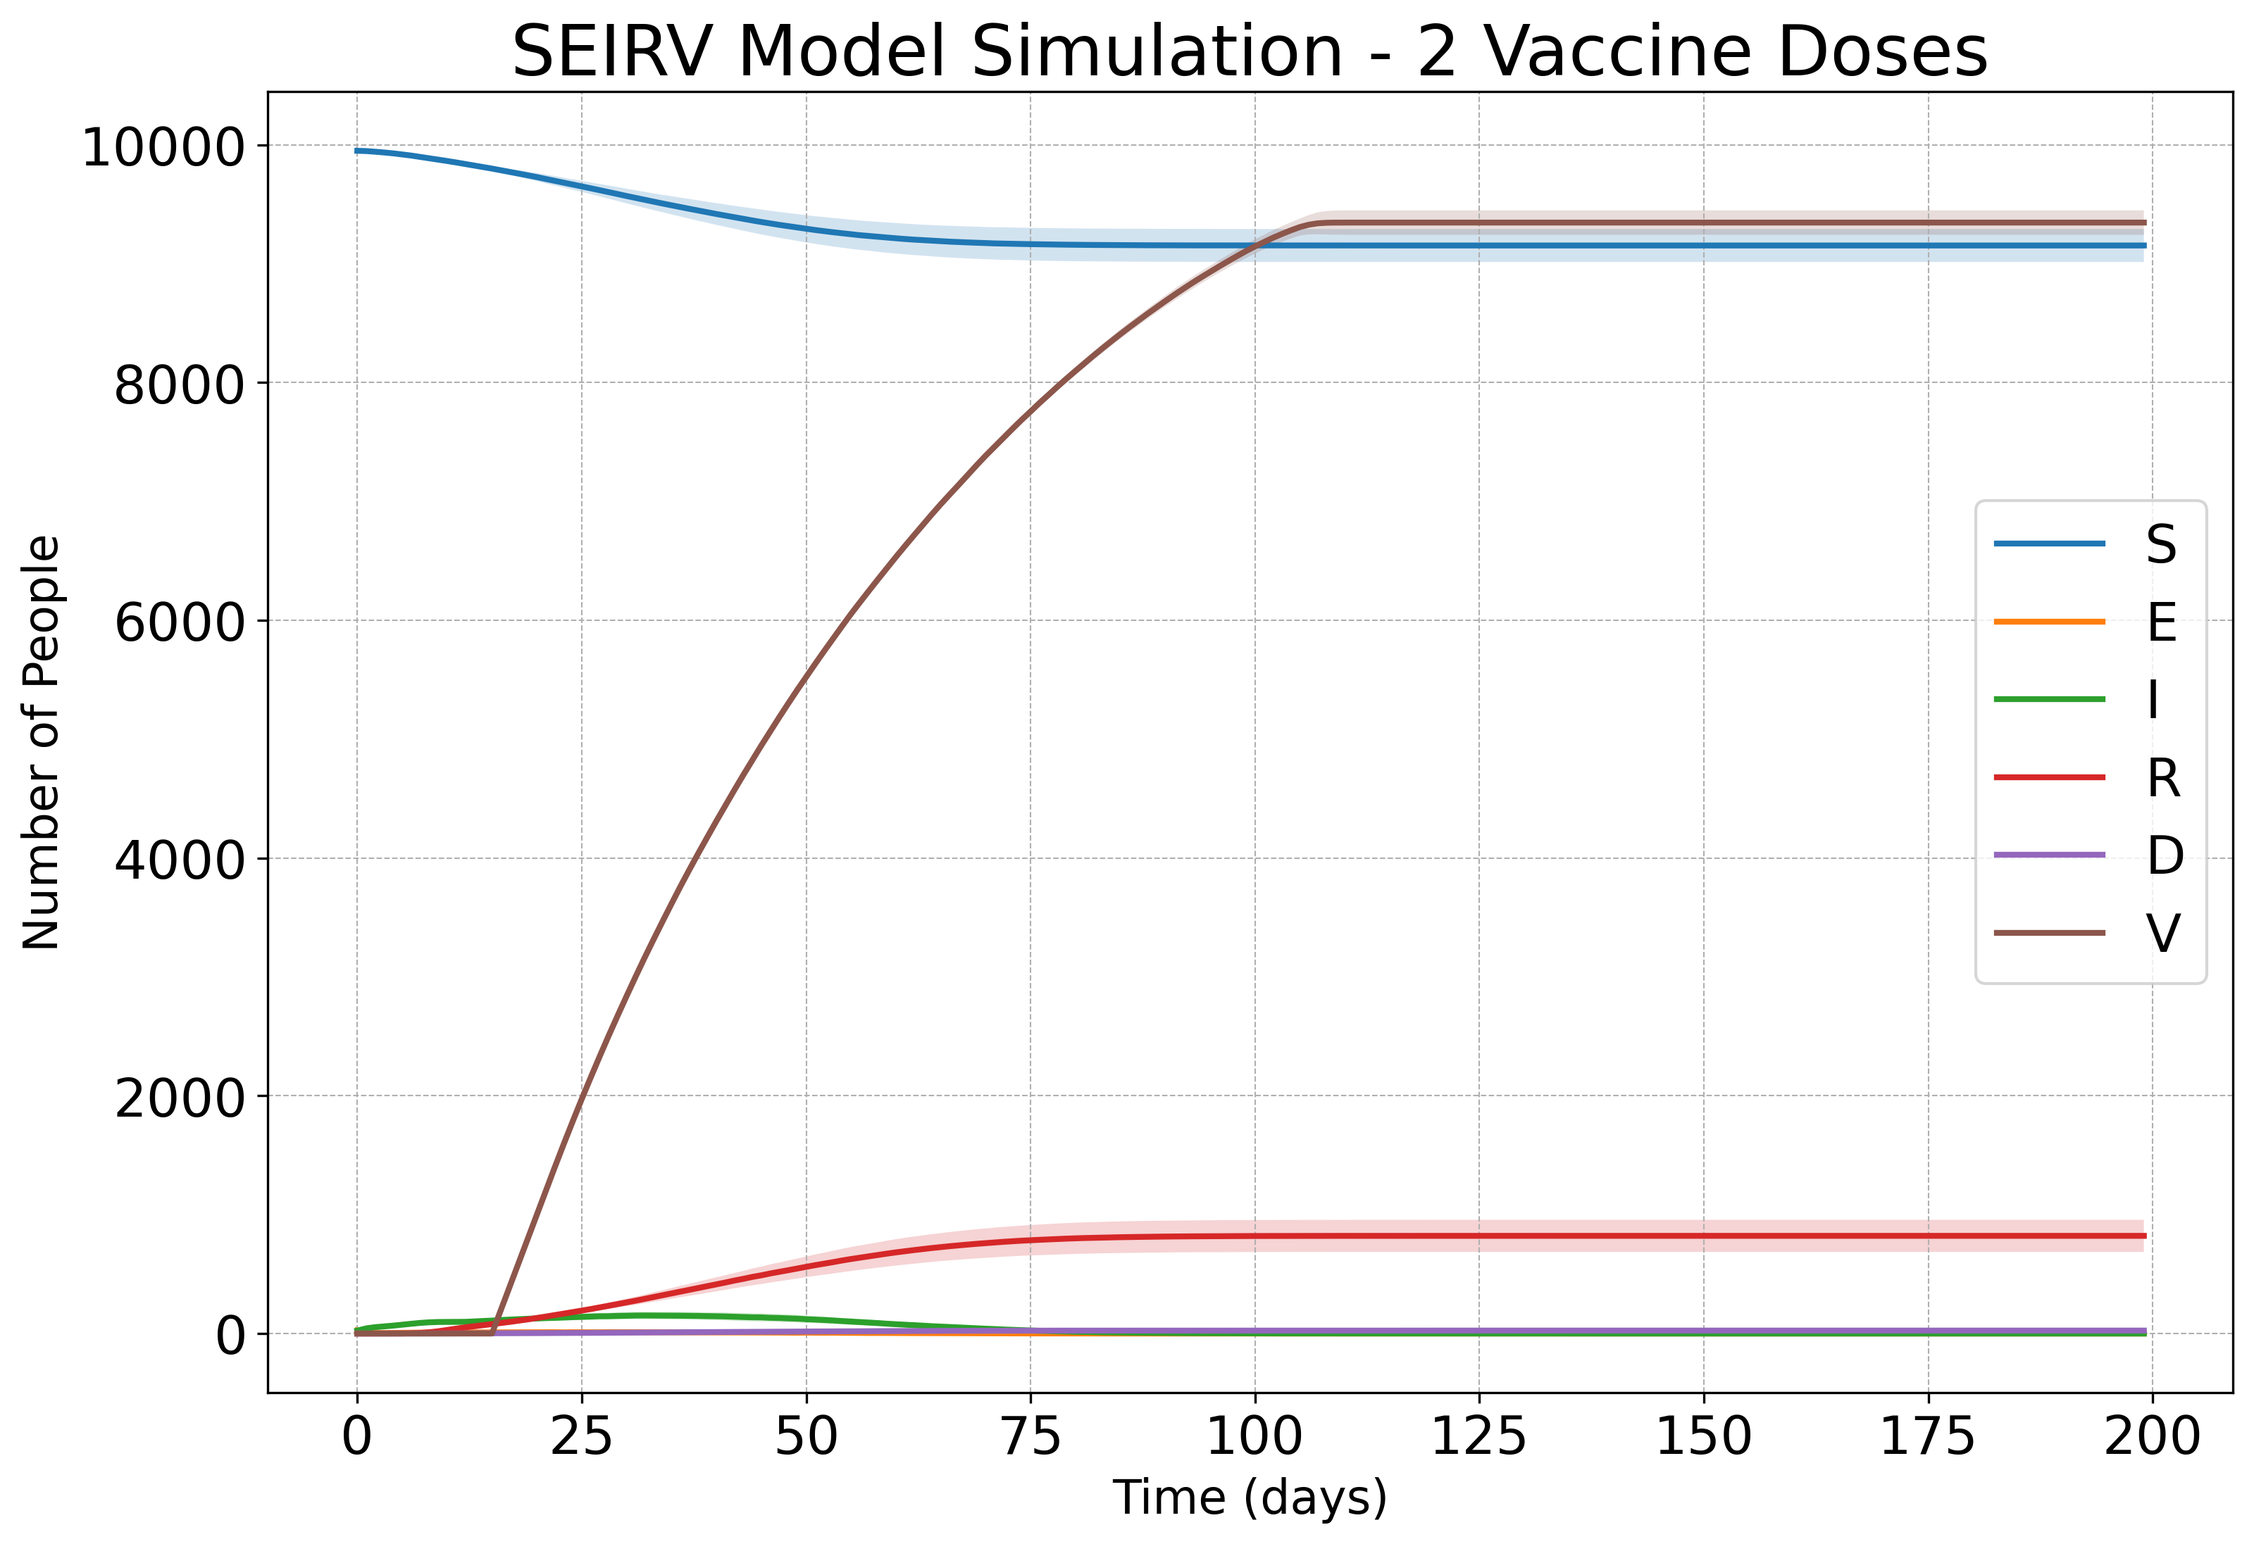
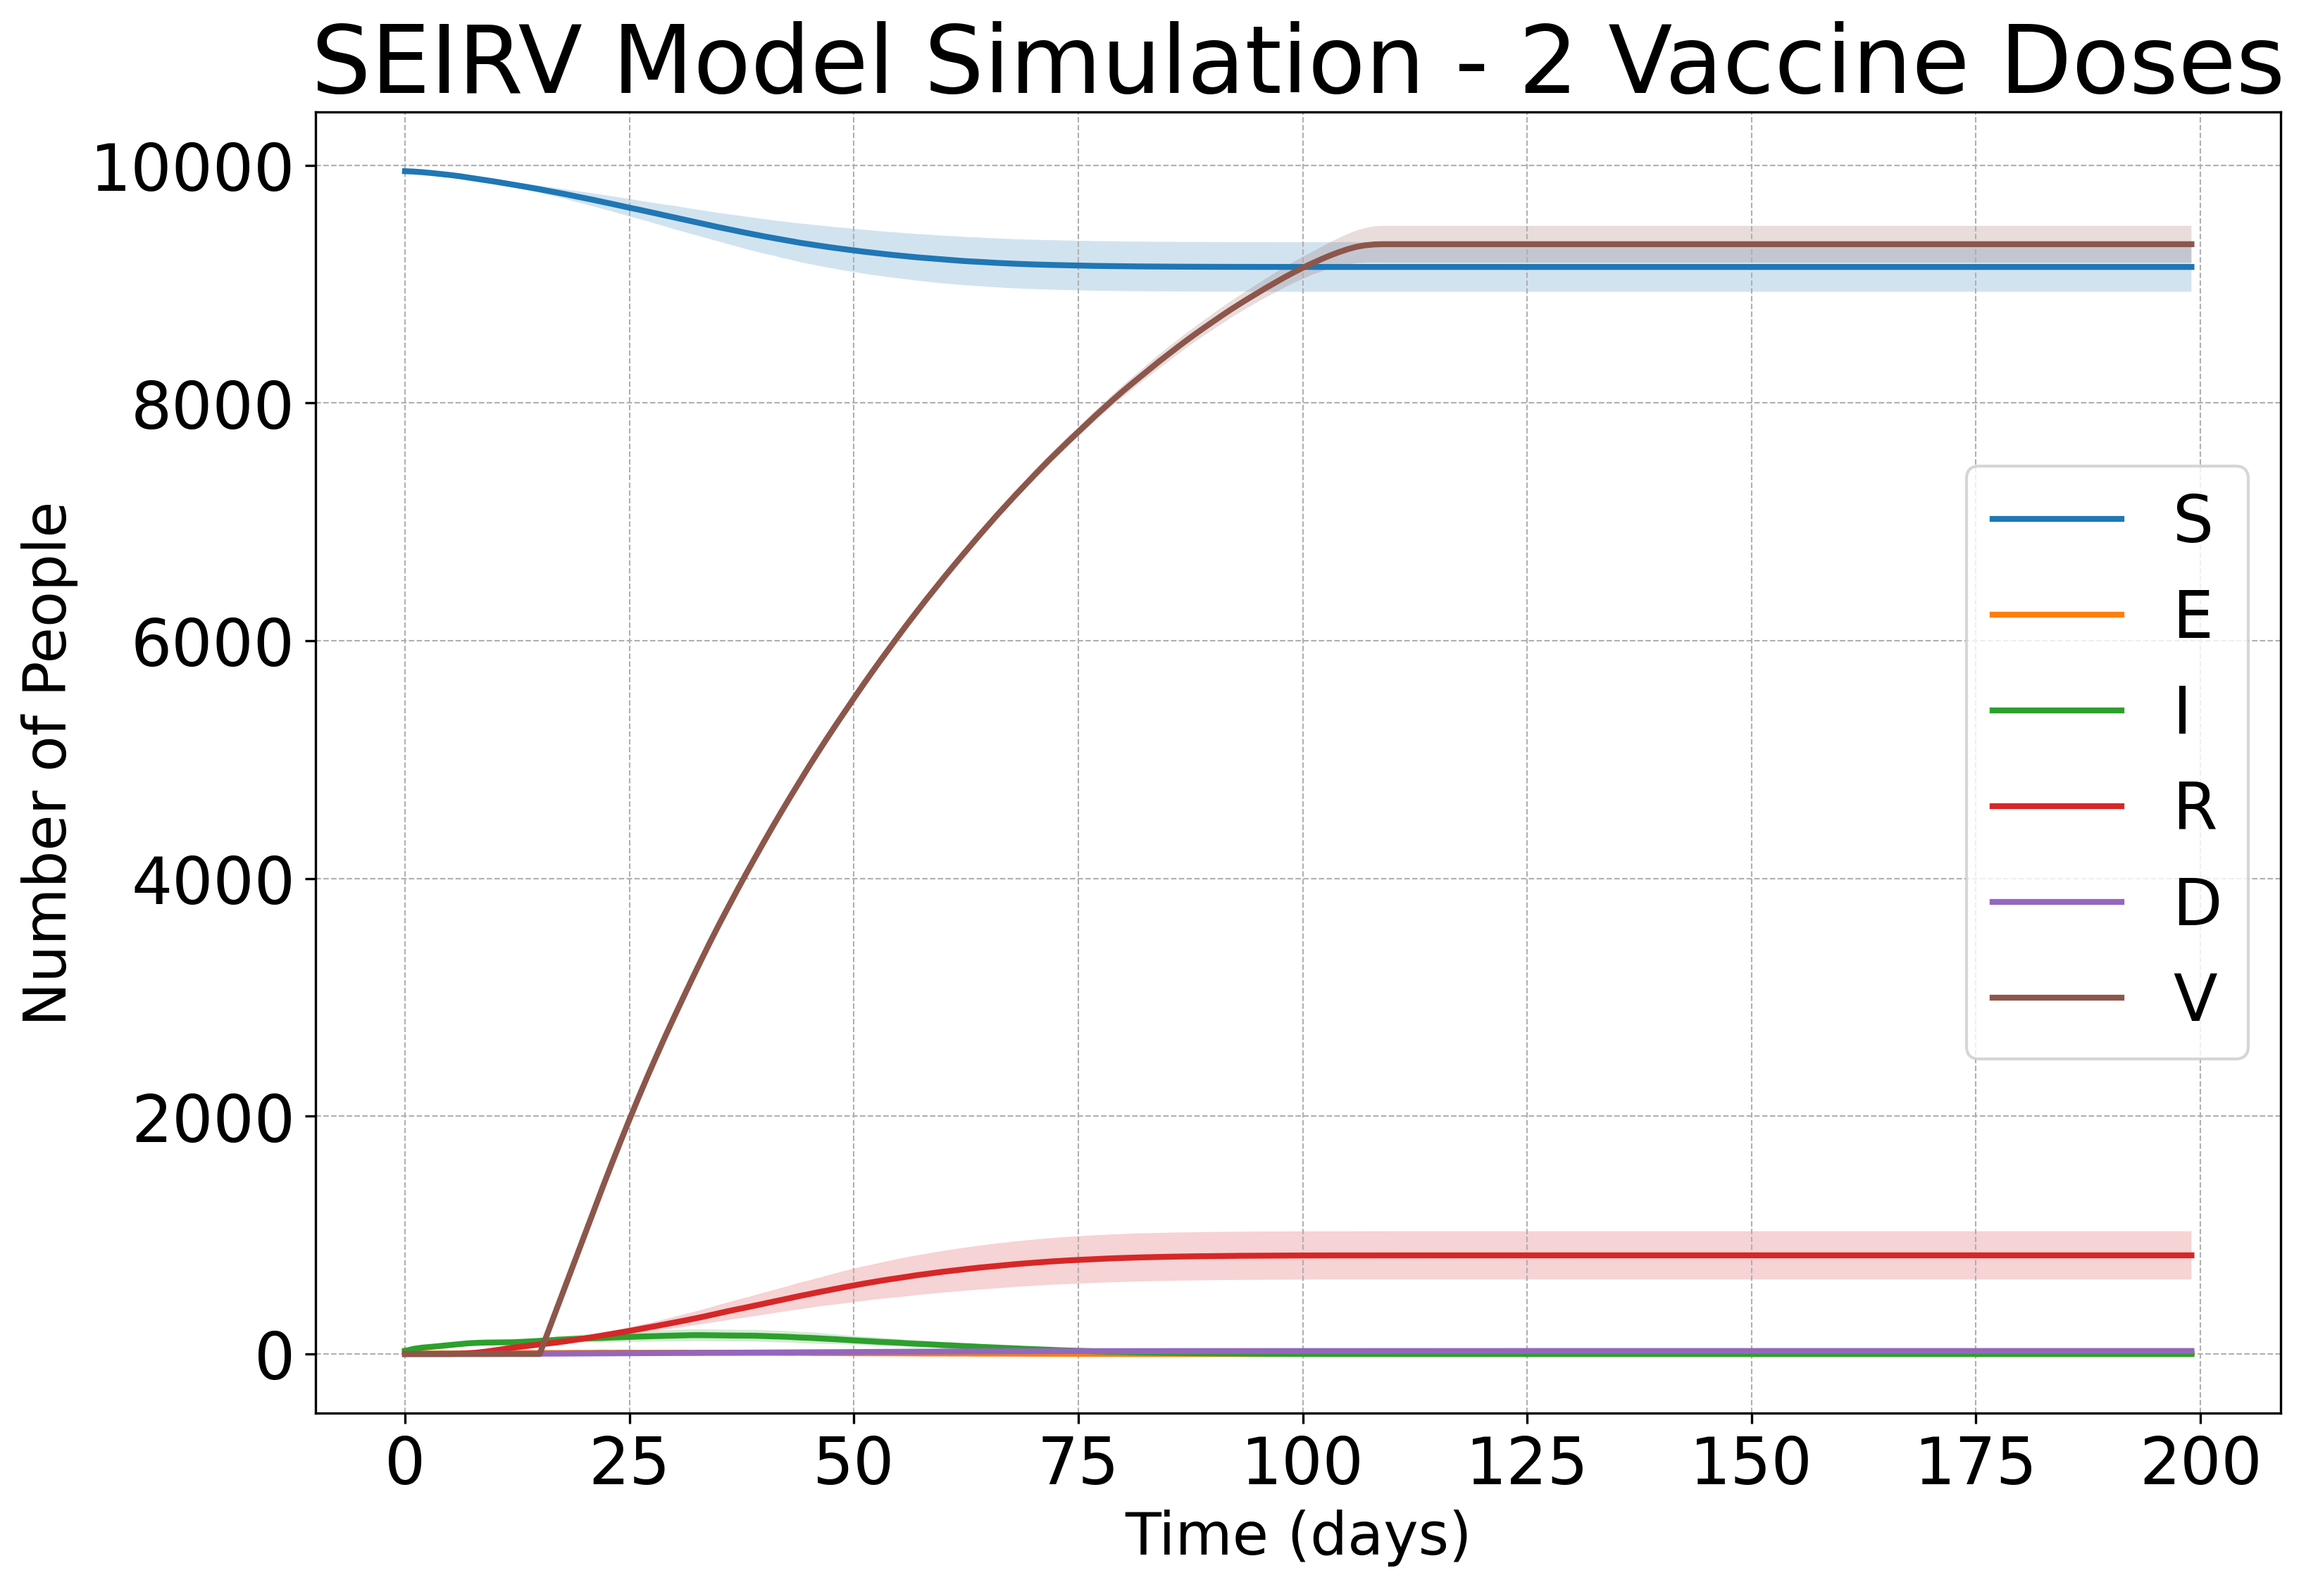
readjusting font sizes

diff --git a/main.py b/main.py
@@ -227,15 +227,15 @@ def plot_seirv_curves(per_state_counts_mean, per_state_counts_std, scenario_name
         plt.plot(time, mean, label=state, linewidth=2)
         plt.fill_between(time, mean - std, mean + std, alpha=0.2)
     
-    plt.xlabel('Time (days)', fontsize=16)
-    plt.ylabel('Number of People', fontsize=16)
-    plt.title(f'SEIRV Model Simulation - {scenario_name}', fontsize=24)
+    plt.xlabel('Time (days)', fontsize=20)
+    plt.ylabel('Number of People', fontsize=20)
+    plt.title(f'SEIRV Model Simulation - {scenario_name}', fontsize=32)
     
     plt.grid(True, which="both", ls="--", linewidth=0.5)
-    plt.legend(fontsize=18)
+    plt.legend(fontsize=22)
     
-    plt.xticks(fontsize=18)
-    plt.yticks(fontsize=18)
+    plt.xticks(fontsize=22)
+    plt.yticks(fontsize=22)
     
     if save:
         plt.savefig(f'plots/seirv_simulation_{scenario_name}.png', bbox_inches='tight', dpi=300)
